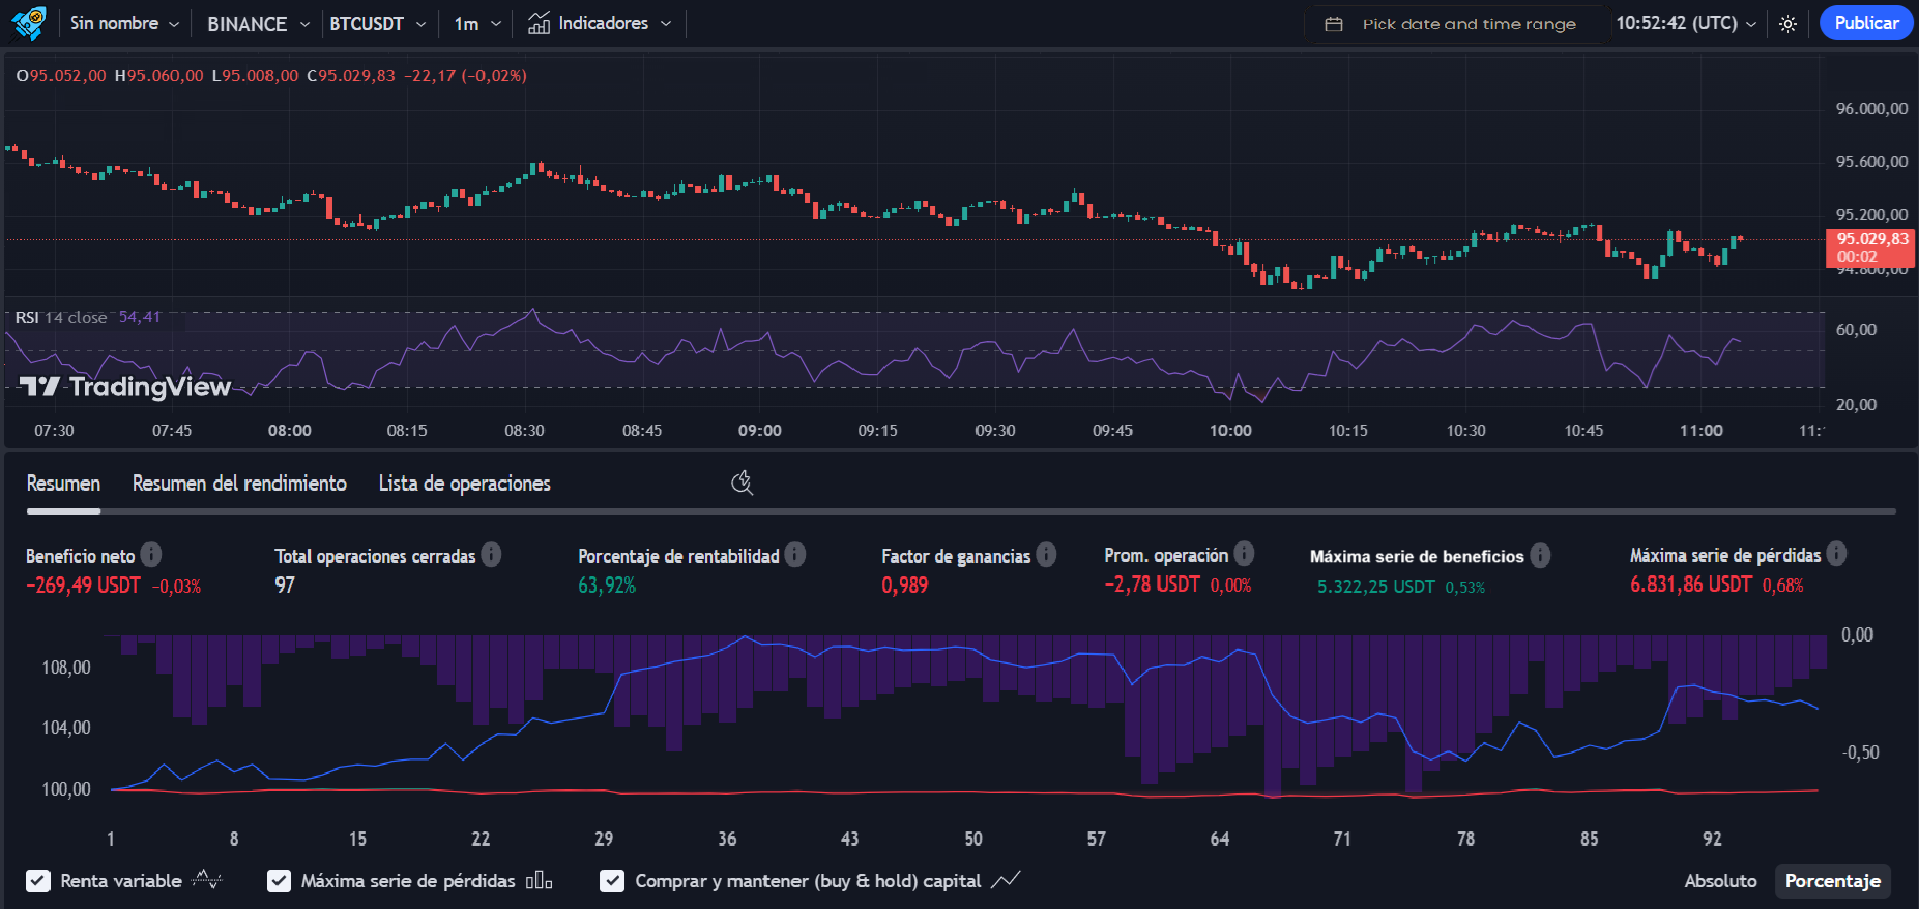
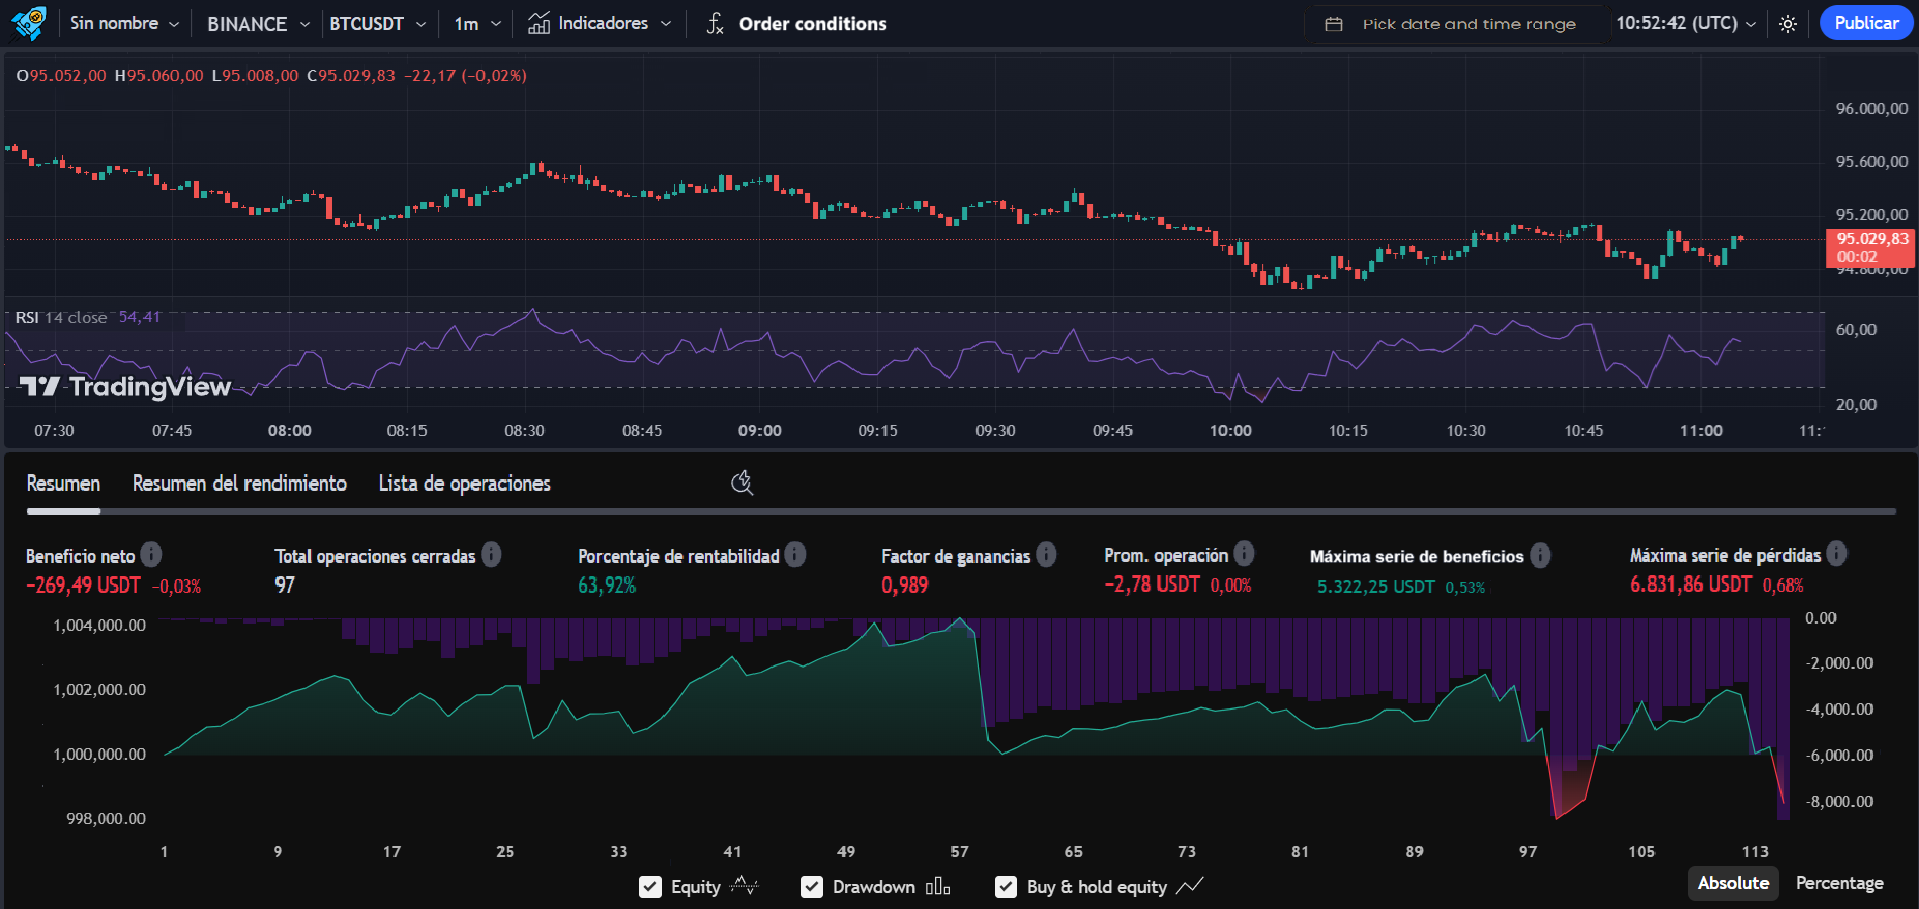
Commit

diff --git a/frontend/src/pages/portal/components/products/products.tsx b/frontend/src/pages/portal/components/products/products.tsx
@@ -1,16 +1,61 @@
 import { ResizableHandle, ResizablePanel, ResizablePanelGroup } from "@/components/ui/resizable"
 import { CandleChart } from "./components/candle-chart"
 import { DateTimeRangePicker } from "./components/date-time-range-picker"
+import { Combobox } from "@/components/combobox"
+import { Separator } from "@/components/ui/separator"
+import { Select, SelectContent, SelectGroup, SelectItem, SelectLabel, SelectTrigger, SelectValue } from "@/components/ui/select"
+import { Button } from "@/components/ui/button"
 
 export function Products() {
+  const strategies = ["MACD", "RSI", "Bollinger Bands", "Moving Average"];
+  const exchanges = ["Binance", "Coinbase", "Kraken", "Bitfinex"];
+  const symbols = ["BTC/USDT", "ETH/USDT", "XRP/USDT", "LTC/USDT"];
+  const timeframes = ["1m", "5m", "15m", "30m", "45m", "1h", "2h", "4h", "1d", "1w", "1M"];
+
   return (
     <ResizablePanelGroup direction="vertical" className="size-full rounded-lg border">
       <ResizablePanel defaultSize={50}>
+        <div className="flex flex-wrap items-center text-sm p-1">
+          <Combobox values={strategies} variant={"ghost"} size={"sm"} width={"160px"} placeholder={"Strategy"} />
+          <Separator orientation="vertical" className="h-5 mx-1" />
+          <Combobox values={exchanges} variant={"ghost"} size={"sm"} width={"160px"} placeholder={"Exchange"} />
+          <Separator orientation="vertical" className="h-5 mx-1" />
+          <Combobox values={symbols} variant={"ghost"} size={"sm"} width={"160px"} placeholder={"Symbol"} />
+          <Separator orientation="vertical" className="h-5 mx-1" />
+          <Select>
+            <SelectTrigger
+              className="w-[130px] h-9 border-0 bg-transparent shadow-none focus:ring-0 focus:outline-none focus:ring-offset-0 hover:bg-accent hover:text-accent-foreground" >
+              <SelectValue placeholder="Timeframe" />
+            </SelectTrigger>
+            <SelectContent className="w-[160px]">
+              <SelectGroup>
+                <SelectLabel>Timeframes</SelectLabel>
+                {timeframes.map((value) => (
+                  <SelectItem key={value} value={value}>
+                    {value}
+                  </SelectItem>
+                ))}
+              </SelectGroup>
+            </SelectContent>
+          </Select>
+          <Separator orientation="vertical" className="h-5 mx-1" />
+          <DateTimeRangePicker variant={"ghost"} size={"sm"} width={"310px"} />
+          <Separator orientation="vertical" className="h-5 mx-1" />
+          <Combobox values={symbols} variant={"ghost"} size={"sm"} width={"160px"} placeholder={"Indicators"} />
+          <Separator orientation="vertical" className="h-5 mx-1" />
+          <Button variant={"ghost"} size={"sm"} className="w-[165px] overflow-hidden font-normal">
+            <svg xmlns="http://www.w3.org/2000/svg" fill="none" viewBox="0 0 28 28"
+              style={{ width: "24", height: "24" }}>
+              <path stroke="currentColor" d="m20 17-5 5m0-5 5 5M9 11.5h7M17.5 8a2.5 2.5 0 0 0-5 0v11a2.5 2.5 0 0 1-5 0" />
+            </svg>
+            Order conditions
+          </Button>
+        </div>
         <CandleChart></CandleChart>
       </ResizablePanel>
       <ResizableHandle />
       <ResizablePanel defaultSize={50} className="flex justify-center items-center">
-        <DateTimeRangePicker />
+
       </ResizablePanel>
     </ResizablePanelGroup>
   )

diff --git a/frontend/src/components/combobox.tsx b/frontend/src/components/combobox.tsx
@@ -1,0 +1,62 @@
+import * as React from "react"
+import { Check, ChevronDown } from "lucide-react"
+import { cn } from "@/lib/utils"
+import { Button } from "@/components/ui/button"
+import { Command, CommandEmpty, CommandGroup, CommandInput, CommandItem, CommandList } from "@/components/ui/command"
+import { Popover, PopoverContent, PopoverTrigger } from "@/components/ui/popover"
+
+type ButtonProps = {
+  variant?: "default" | "destructive" | "outline" | "secondary" | "ghost" | "link";
+  size?: "default" | "sm" | "lg" | "logo";
+  width?: string;
+};
+
+export function Combobox({values = ["item1", "item2"], variant = "default", size = "default", width = "200px", placeholder = "Items" }: Readonly<ButtonProps>) {
+  const [open, setOpen] = React.useState(false)
+  const [value, setValue] = React.useState("")
+
+  return (
+    <Popover open={open} onOpenChange={setOpen}>
+      <PopoverTrigger asChild>
+        <Button
+          variant={variant}
+          size={size}
+          role="combobox"
+          aria-expanded={open}
+          style={{ width }}
+          className="justify-between overflow-hidden font-normal">
+          {value || placeholder}
+          <ChevronDown className="opacity-50" />
+        </Button>
+      </PopoverTrigger>
+      <PopoverContent className="w-[200px] p-0">
+        <Command>
+          <CommandInput placeholder={`Search ${placeholder.toLowerCase()}...`} className="h-9" />
+          <CommandList>
+            <CommandEmpty>No {placeholder.toLowerCase()} found</CommandEmpty>
+            <CommandGroup>
+              {values.map((item) => (
+                <CommandItem
+                  key={item}
+                  value={item}
+                  onSelect={() => {
+                    setValue(item === value ? "" : item);
+                    setOpen(false);
+                  }}
+                >
+                  {item}
+                  <Check
+                    className={cn(
+                      "ml-auto",
+                      value === item ? "opacity-100" : "opacity-0"
+                    )}
+                  />
+                </CommandItem>
+              ))}
+            </CommandGroup>
+          </CommandList>
+        </Command>
+      </PopoverContent>
+    </Popover>
+  )
+}

diff --git a/frontend/src/pages/portal/components/products/components/date-time-range-picker.tsx b/frontend/src/pages/portal/components/products/components/date-time-range-picker.tsx
@@ -8,7 +8,13 @@ import { Calendar } from "@/components/ui/calendar";
 import { Popover, PopoverContent, PopoverTrigger } from "@/components/ui/popover";
 import { ScrollArea } from "@/components/ui/scroll-area";
 
-export function DateTimeRangePicker() {
+type ButtonProps = {
+	variant?: "default" | "destructive" | "outline" | "secondary" | "ghost" | "link";
+	size?: "default" | "sm" | "lg" | "logo";
+	width?: string;
+};
+
+export function DateTimeRangePicker({ variant = "default", size = "default", width = "200px" }: Readonly<ButtonProps>) {
 	const [dateRange, setDateRange] = React.useState<DateRange>({
 		from: undefined,
 		to: undefined,
@@ -77,20 +83,15 @@ export function DateTimeRangePicker() {
 		<Popover open={isOpen} onOpenChange={setIsOpen}>
 			<PopoverTrigger asChild>
 				<Button
-					variant="outline"
+					variant={variant}
+					size={size}
+					style={{ width }}
 					className={cn(
-						"w-full justify-start text-left font-normal",
-						!dateRange.from && "text-muted-foreground"
-					)}
-				>
-					<CalendarIcon className="mr-2 h-4 w-4" />
-					{dateRange.from && dateRange.to ? (
-						<>
-							{formatDateTime(dateRange.from)} - {formatDateTime(dateRange.to)}
-						</>
-					) : (
-						<span>Pick date and time range</span>
-					)}
+						"justify-start text-left font-normal overflow-hidden"
+					)}>
+					<CalendarIcon /> {dateRange.from && dateRange.to
+						? `${formatDateTime(dateRange.from)} - ${formatDateTime(dateRange.to)}`
+						: "Pick date and time range"}
 				</Button>
 			</PopoverTrigger>
 			<PopoverContent className="w-auto p-4 border-[1px] border-border">

diff --git a/README.md b/README.md
@@ -21,7 +21,7 @@
 # Enlaces
 https://pandas.pydata.org/docs/
 
-https://ta-lib.org/
+https://ta-lib.github.io/ta-lib-python/funcs.html
 
 https://docs.ccxt.com/
 
